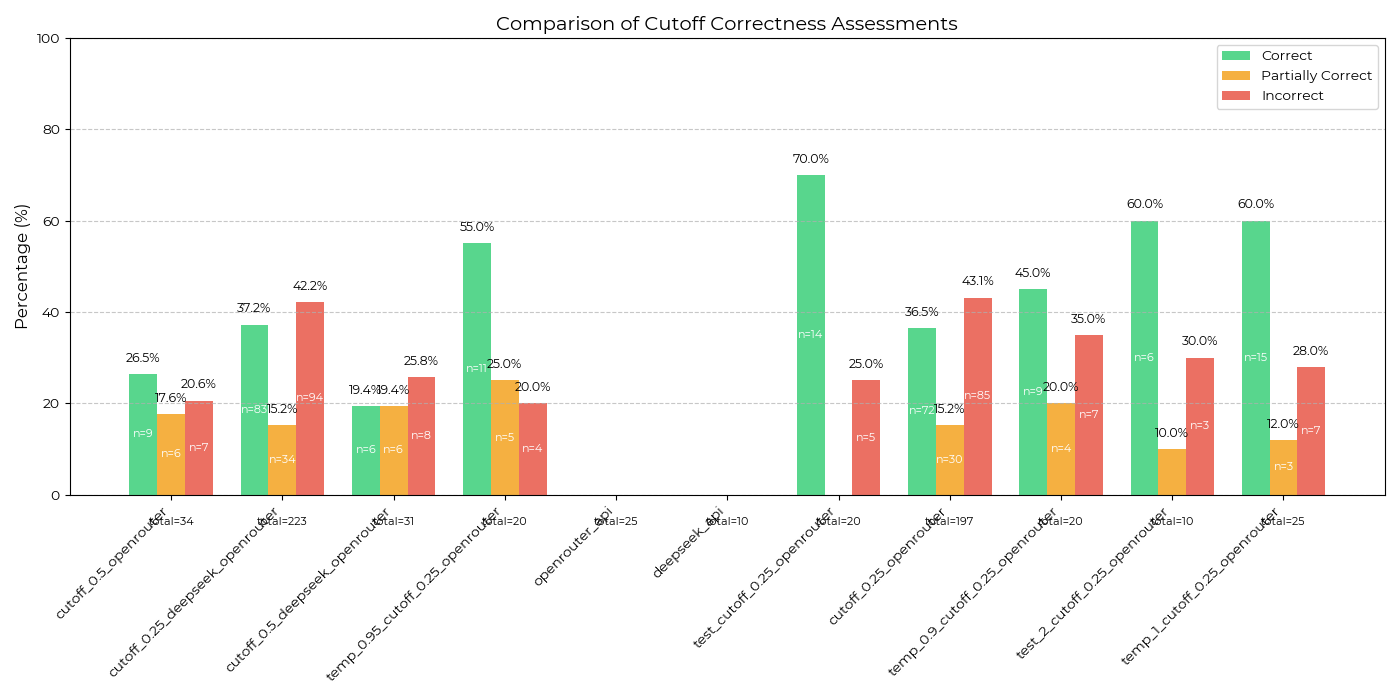
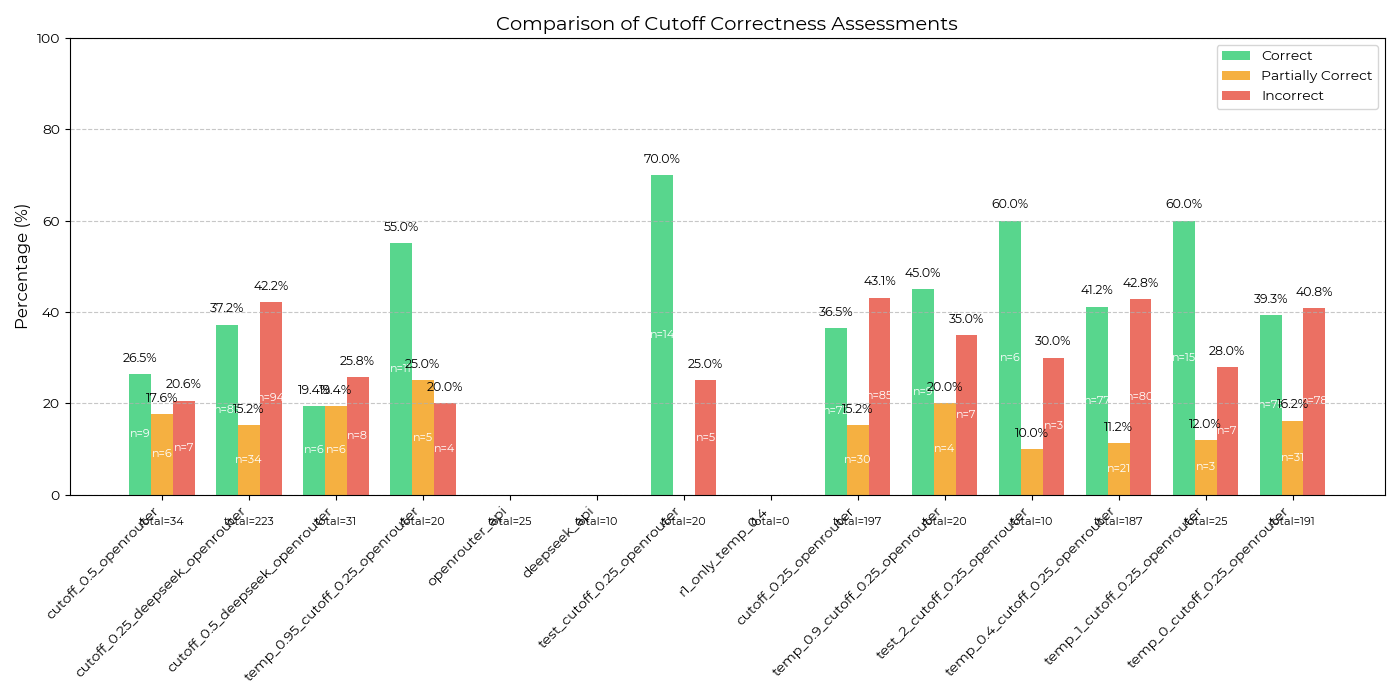
Added new plotting functions, made a lot of new plots.

diff --git a/utils/analysis_utils.py b/utils/analysis_utils.py
@@ -1,4 +1,5 @@
 import os
+import re
 import json
 import glob
 import argparse
@@ -973,7 +974,7 @@ def plot_legibility_by_correctness(stats, file_name, plots_dir, plot_answer=True
     
     # Add styling and labels
     ax.set_ylabel('Illegibility Score', fontsize=12)
-    ax.set_title(f'Illegibility by Question Hardness (n={len(stats)})', fontsize=14)
+    ax.set_title(f'Illegibility by Correctness (n={len(stats)})', fontsize=14)
     ax.set_xticks(x)
     ax.set_xticklabels(categories)
     ax.set_ylim(0, 9.5)
@@ -990,3 +991,197 @@ def plot_legibility_by_correctness(stats, file_name, plots_dir, plot_answer=True
     plt.savefig(plot_path)
     plt.close()
     print(f"Illegibility by question hardness plot saved to {plot_path}")
+
+def plot_length_vs_legibility(data, file_name, plots_dir):
+    """Plot section lengths versus legibility scores."""
+    section_data = {
+        'deepseek_reasoning': {'lengths': [], 'scores': []},
+        'cutoff_reasoning': {'lengths': [], 'scores': []},
+        'anthropic_reasoning': {'lengths': [], 'scores': []},
+        'openai_reasoning': {'lengths': [], 'scores': []}
+    }
+
+    # Extract sections using patterns
+    patterns = {
+        'deepseek_reasoning': r"# DeepSeek reasoning.*?\n(.*?)(?=\n---|\n# |\Z)",
+        'cutoff_reasoning': r"# cutoff_deepseek_completion reasoning.*?\n(.*?)(?=\n---|\n# |\Z)",
+        'anthropic_reasoning': r"# paraphrased_deepseek_completion_anthropic reasoning.*?\n(.*?)(?=\n---|\n# |\Z)",
+        'openai_reasoning': r"# paraphrased_deepseek_completion_openai reasoning.*?\n(.*?)(?=\n---|\n# |\Z)"
+    }
+
+    for result in data:
+        filename = result.get("file")
+        filepath = os.path.join("r1_rollouts", file_name, filename)
+        if not os.path.exists(filepath):
+            print(f"File {filepath} does not exist")
+            continue
+
+        with open(filepath, 'r', encoding='utf-8') as f:
+            content = f.read()
+
+        legibility = result.get("legibility", {})
+        for section, pattern in patterns.items():
+            match = re.search(pattern, content, re.DOTALL)
+            if match and section in legibility:
+                section_text = match.group(1).strip()
+                section_score = legibility[section].get("score")
+                if isinstance(section_score, (int, float)):
+                    section_data[section]['lengths'].append(len(section_text))
+                    section_data[section]['scores'].append(section_score)
+
+    colors = get_model_colors()
+    plt.figure(figsize=(12, 8))
+
+    # Create a 2x2 grid instead of 2x4
+    for i, (section, values) in enumerate(section_data.items(), 1):
+        if values['lengths'] and values['scores']:
+            plt.subplot(2, 2, i)
+            model = section.split('_')[0]
+            plt.scatter(values['lengths'], values['scores'], alpha=0.5, color=colors.get(model, '#7f8c8d'))
+            plt.title(get_model_display_name(model) + f"\n({section.split('_')[1].capitalize()})")
+            plt.xlabel('Section Length')
+            plt.ylabel('Legibility Score')
+            plt.grid(True, alpha=0.3)
+            
+    plt.tight_layout()
+    plot_path = os.path.join(plots_dir, f"{file_name}_length_vs_legibility.png")
+    plt.savefig(plot_path)
+    plt.close()
+    print(f"Length vs legibility plot saved to {plot_path}")
+
+def plot_correctness_with_baseline(stats, file_name, plots_dir):
+    """Plot correctness assessment for a file."""
+    # Try to load baseline data
+    baseline_file = file_name.replace('cutoff_0.25_openrouter', 'temp_0_cutoff_0.25_openrouter')
+    try:
+        with open(f'scores/{baseline_file}_scores.json') as f:
+            baseline_data = json.load(f)
+            baseline_stats = analyze_correctness_scores(baseline_data)
+            has_baseline = True
+    except:
+        has_baseline = False
+
+    plt.figure(figsize=(12, 6))
+    
+    # Prepare data
+    models = ['baseline'] + list(stats["correctness"].keys()) if has_baseline else list(stats["correctness"].keys())
+    correct_pct = [baseline_stats["deepseek"]["correct_percentage"] if has_baseline else 0] + [stats["correctness"][model]["correct_percentage"] for model in models[1:]] if has_baseline else [stats["correctness"][model]["correct_percentage"] for model in models]
+    partially_pct = [baseline_stats["deepseek"]["partially_percentage"] if has_baseline else 0] + [stats["correctness"][model]["partially_percentage"] for model in models[1:]] if has_baseline else [stats["correctness"][model]["partially_percentage"] for model in models]
+    incorrect_pct = [baseline_stats["deepseek"]["incorrect_percentage"] if has_baseline else 0] + [stats["correctness"][model]["incorrect_percentage"] for model in models[1:]] if has_baseline else [stats["correctness"][model]["incorrect_percentage"] for model in models]
+    counts = [baseline_stats["deepseek"]["total"] if has_baseline else 0] + [stats["correctness"][model]["total"] for model in models[1:]] if has_baseline else [stats["correctness"][model]["total"] for model in models]
+    
+    # Define bar positions  
+    bar_width = 0.25
+    r1 = np.arange(len(models))
+    r2 = [x + bar_width for x in r1]
+    r3 = [x + bar_width for x in r2]
+
+    # Create bars
+    bars1 = plt.bar(r1, correct_pct, width=bar_width, label='Correct', color='#2ecc71', alpha=0.8)
+    bars2 = plt.bar(r2, partially_pct, width=bar_width, label='Partially Correct', color='#f39c12', alpha=0.8)
+    bars3 = plt.bar(r3, incorrect_pct, width=bar_width, label='Incorrect', color='#e74c3c', alpha=0.8)
+
+    # Format x-axis labels with model display names
+    model_labels = [get_model_display_name(model) for model in models] if not has_baseline else ['Baseline'] + [get_model_display_name(model) for model in models[1:]]
+    
+    # Add labels and customize plot
+    plt.ylabel('Percentage (%)', fontsize=12)
+    plt.title(f'Correctness Assessment for r1 (n={min(counts)})', fontsize=14)
+    plt.xticks([r + bar_width for r in range(len(models))], model_labels)
+    plt.ylim(0, 100)
+    plt.legend()
+    plt.grid(axis='y', linestyle='--', alpha=0.7)
+    
+    # Add value labels
+    for bars, values in [(bars1, correct_pct), (bars2, partially_pct), (bars3, incorrect_pct)]:
+        for bar, value in zip(bars, values):
+            if value > 0:
+                plt.text(bar.get_x() + bar.get_width()/2, value + 2, f'{value:.1f}%', 
+                        ha='center', va='bottom', fontsize=9)
+    
+    plt.tight_layout()
+
+    # Save plot
+    plot_path = os.path.join(plots_dir, f"{file_name}_correctness_with_baseline.png")
+    plt.savefig(plot_path)
+    plt.close()
+    print(f"Correctness assessment plot saved to {plot_path}")
+
+def plot_legibility_by_baseline_correctness(data, file_name, plots_dir):
+    """Plot legibility scores categorized by baseline correctness."""
+    baseline_file = file_name.replace('cutoff_0.25_openrouter', 'temp_0_cutoff_0.25_openrouter')
+    try:
+        with open(f'scores/{baseline_file}_scores.json') as f:
+            baseline_data = json.load(f)
+    except:
+        return
+
+    # Initialize data structures
+    metrics = ["deepseek_response", "deepseek_reasoning", 
+              "cutoff_response", "cutoff_reasoning",
+              "anthropic_response", "anthropic_reasoning", 
+              "openai_response", "openai_reasoning"]
+    categories = ["Correct", "Partially Correct", "Incorrect"]
+    data_by_category = {cat: {metric: [] for metric in metrics} for cat in categories}
+    
+    # Get baseline correctness mapping
+    baseline_correctness = {q['question']: q['correctness']['deepseek']['correctness'] 
+                          for q in baseline_data if 'correctness' in q}
+
+    # Categorize and collect scores
+    for q_data in data:
+        if q_data['question'] not in baseline_correctness:
+            continue
+        if baseline_correctness[q_data['question']] == "N/A" or baseline_correctness[q_data['question']] == "error":
+            continue
+        cat = {"correct": "Correct", 
+               "partially_correct": "Partially Correct",
+               "incorrect": "Incorrect"}[baseline_correctness[q_data['question']]]
+        
+        for metric in metrics:
+            if metric in q_data.get('legibility', {}):
+                score = q_data['legibility'][metric].get('score')
+                if score is not None and score != "N/A" and isinstance(score, (int, float)):
+                    data_by_category[cat][metric].append(score)
+
+    # Plot
+    x = np.arange(len(categories))
+    width = 0.09
+    spacing = 0.01
+    fig, ax = plt.subplots(figsize=(12, 6))
+    colors = get_model_colors()
+    legend_items = []
+
+    for i, metric in enumerate(metrics):
+        model, eval_type = metric.split('_')
+        color = colors.get(model, '#7f8c8d')
+        hatch = '///' if eval_type == 'reasoning' else ''
+        
+        means = [np.mean(data_by_category[cat][metric]) if data_by_category[cat][metric] else 0 
+                for cat in categories]
+        stds = [np.std(data_by_category[cat][metric]) if len(data_by_category[cat][metric]) > 1 else 0 
+                for cat in categories]
+        
+        pos = x + (i * (width + spacing) - len(metrics) * (width + spacing) / 2 + width/2)
+        bars = ax.bar(pos, means, width, color=color, alpha=1)
+        ax.errorbar(pos, means, yerr=stds, ecolor='black', capsize=3, alpha=0.7, linestyle='none', linewidth=1)
+        
+        for bar in bars:
+            bar.set_hatch(hatch)
+            
+        legend_suffix = "(Reasoning)" if eval_type == 'reasoning' else "(Answer)"
+        legend_items.append((bars[0], f"{get_model_display_name(model)} {legend_suffix}"))
+
+    ax.set_ylabel('Illegibility Score', fontsize=12)
+    ax.set_title('Illegibility by Baseline Correctness', fontsize=14)
+    ax.set_xticks(x)
+    ax.set_xticklabels(categories)
+    ax.set_ylim(0, 9.5)
+    ax.grid(axis='y', linestyle='--', alpha=0.7)
+    
+    handles, labels = zip(*legend_items)
+    ax.legend(handles, labels, title="Models", loc='upper left')
+    
+    plt.tight_layout()
+    plt.savefig(os.path.join(plots_dir, f"{file_name}_legibility_by_baseline.png"))
+    plt.close()

diff --git a/r1_paraphrased.py b/r1_paraphrased.py
@@ -286,7 +286,7 @@ def process_question(question_text, index, total, cutoff_portion, output_subdir,
 def parse_args():
     parser = argparse.ArgumentParser(description="Process questions with DeepSeek and OpenRouter")
     parser.add_argument('--num_questions', type=int, default=20, help='Number of questions to process')
-    parser.add_argument('--max_concurrent_workers', type=int, default=30, help='Number of concurrent workers')
+    parser.add_argument('--max_concurrent_workers', type=int, default=40, help='Number of concurrent workers')
     parser.add_argument('--cutoff_portion', type=float, default=0.25, help='Portion of initial reasoning to keep/paraphrase')
     parser.add_argument('--openrouter_only', action='store_true', help='Use OpenRouter only')
     parser.add_argument('--override_existing', action='store_true', help='Process all questions, even if output files exist')

diff --git a/analyze_scores.py b/analyze_scores.py
@@ -17,6 +17,9 @@ def process_regular_file(file_path, plots_dir=None, std_display=None):
         analysis_utils.plot_legibility_scores(stats, file_name, plots_dir, std_display=std_display)
         analysis_utils.plot_correctness_assessment(stats, file_name, plots_dir)
         analysis_utils.plot_legibility_by_correctness(data, file_name, plots_dir)
+        analysis_utils.plot_length_vs_legibility(data, file_name, plots_dir)
+        analysis_utils.plot_correctness_with_baseline(stats, file_name, plots_dir)
+        analysis_utils.plot_legibility_by_baseline_correctness(data, file_name, plots_dir)
     
     return file_name, stats
 
